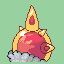
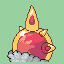
let it snow
finally completed the new mega i think i hope

Changed region(s): [[0.5938, 0.4375, 0.875, 0.9688], [0.4062, 0.5, 0.4375, 0.5312]]

diff --git a/src/data/pokemon/species_info.h b/src/data/pokemon/species_info.h
@@ -501,6 +501,64 @@ const struct SpeciesInfo gSpeciesInfo[] =
         .teachableLearnset = sRegitubeTeachableLearnset,
     },
 
+    [SPECIES_SLOWBRO_MEGA_G] =
+    {
+        .baseHP        = 95,
+        .baseAttack    = 100,
+        .baseDefense   = 95,
+        .baseSpeed     = 30,
+        .baseSpAttack  = 180,
+        .baseSpDefense = 90,
+        .types = MON_TYPES(TYPE_POISON, TYPE_PSYCHIC),
+        .catchRate = 75,
+        .expYield = 172,
+        .evYield_Attack = 2,
+        .genderRatio = PERCENT_FEMALE(50),
+        .eggCycles = 20,
+        .friendship = STANDARD_FRIENDSHIP,
+        .growthRate = GROWTH_MEDIUM_FAST,
+        .eggGroups = MON_EGG_GROUPS(EGG_GROUP_MONSTER, EGG_GROUP_WATER_1),
+        .abilities = { ABILITY_REACTIVE_FIRE, ABILITY_REACTIVE_FIRE, ABILITY_REACTIVE_FIRE },
+        .bodyColor = BODY_COLOR_PINK,
+        .speciesName = _("Slowbro"),
+        .cryId = CRY_SLOWBRO_MEGA,
+        .natDexNum = NATIONAL_DEX_SLOWBRO,
+        .categoryName = _("Hermit Crab"),
+        .height = 20,
+        .weight = 865,
+        .description = COMPOUND_STRING(
+            "A recently discovered Mega Evolution when\n"
+            "a Slowbro from Galar found a Slowbronite.\n"
+            "The force of poisonous shots fired from\n"
+            "its cannon can pierce through cargo ships."),
+        .pokemonScale = 256,
+        .pokemonOffset = 6,
+        .trainerScale = 326,
+        .trainerOffset = 2,
+        .frontPic = gMonFrontPic_SlowbroMegaG,
+        .frontPicSize = MON_COORDS_SIZE(64, 56),
+        .frontPicYOffset = 4,
+        .frontAnimFrames = sAnims_SingleFramePlaceHolder,
+        //.frontAnimId = ANIM_V_SQUISH_AND_BOUNCE,
+        .backPic = gMonBackPic_SlowbroMegaG,
+        .backPicSize = MON_COORDS_SIZE(64, 48),
+        .backPicYOffset = 2,
+        //.backAnimId = BACK_ANIM_NONE,
+        .palette = gMonPalette_SlowbroMegaG,
+        .shinyPalette = gMonShinyPalette_SlowbroMegaG,
+        .iconSprite = gMonIcon_SlowbroMegaG,
+        .iconPalIndex = 0,
+        .pokemonJumpType = PKMN_JUMP_TYPE_NONE,
+        SHADOW(0, 9, SHADOW_SIZE_L)
+        FOOTPRINT(Slowbro)
+        .isGalarianForm = TRUE,
+        .isMegaEvolution = TRUE,
+        .levelUpLearnset = sSlowbroGalarLevelUpLearnset,
+        .teachableLearnset = sSlowbroGalarTeachableLearnset,
+        .formSpeciesIdTable = sSlowbroFormSpeciesIdTable,
+        .formChangeTable = sSlowbroGalarFormChangeTable,
+    },
+
     [SPECIES_CASTFORM_MEGA] =
     {
         .baseHP        = 70,
@@ -521,7 +579,7 @@ const struct SpeciesInfo gSpeciesInfo[] =
         .abilities = { ABILITY_WEATHERMAN, ABILITY_WEATHERMAN, ABILITY_WEATHERMAN },
         .bodyColor = BODY_COLOR_GRAY,
         .speciesName = _("Castform"),
-        .cryId = CRY_CASTFORM,
+        .cryId = CRY_CASTFORM_MEGA,
         .natDexNum = NATIONAL_DEX_CASTFORM,
         .categoryName = _("Weather"),
         .height = 8,
@@ -580,7 +638,7 @@ const struct SpeciesInfo gSpeciesInfo[] =
         .abilities = { ABILITY_WEATHERMAN, ABILITY_WEATHERMAN, ABILITY_WEATHERMAN },
         .bodyColor = BODY_COLOR_RED,
         .speciesName = _("Castform"),
-        .cryId = CRY_CASTFORM,
+        .cryId = CRY_CASTFORM_MEGA,
         .natDexNum = NATIONAL_DEX_CASTFORM,
         .categoryName = _("Weather"),
         .height = 8,
@@ -639,7 +697,7 @@ const struct SpeciesInfo gSpeciesInfo[] =
         .abilities = { ABILITY_WEATHERMAN, ABILITY_WEATHERMAN, ABILITY_WEATHERMAN },
         .bodyColor = BODY_COLOR_BLUE,
         .speciesName = _("Castform"),
-        .cryId = CRY_CASTFORM,
+        .cryId = CRY_CASTFORM_MEGA,
         .natDexNum = NATIONAL_DEX_CASTFORM,
         .categoryName = _("Weather"),
         .height = 8,
@@ -698,7 +756,7 @@ const struct SpeciesInfo gSpeciesInfo[] =
         .abilities = { ABILITY_WEATHERMAN, ABILITY_WEATHERMAN, ABILITY_WEATHERMAN },
         .bodyColor = BODY_COLOR_WHITE,
         .speciesName = _("Castform"),
-        .cryId = CRY_CASTFORM,
+        .cryId = CRY_CASTFORM_MEGA,
         .natDexNum = NATIONAL_DEX_CASTFORM,
         .categoryName = _("Weather"),
         .height = 8,
@@ -712,22 +770,22 @@ const struct SpeciesInfo gSpeciesInfo[] =
         .pokemonOffset = -5,
         .trainerScale = 256,
         .trainerOffset = 0,
-        .frontPic = gMonFrontPic_CastformSnowy,
+        .frontPic = gMonFrontPic_CastformMegaSnowy,
         .frontPicSize = MON_COORDS_SIZE(40, 56),
         .frontPicYOffset = 8,
         .frontAnimFrames = sAnims_SingleFramePlaceHolder,
         //.frontAnimId = ANIM_V_SQUISH_AND_BOUNCE,
-        .enemyMonElevation = 5,
-        .backPic = gMonBackPic_CastformSnowy,
+        .enemyMonElevation = 7,
+        .backPic = gMonBackPic_CastformMegaSnowy,
         .backPicSize = MON_COORDS_SIZE(56, 64),
-        .backPicYOffset = 0,
+        .backPicYOffset = 2,
         //.backAnimId = BACK_ANIM_NONE,
-        .palette = gMonPalette_CastformSnowy,
-        .shinyPalette = gMonShinyPalette_CastformSnowy,
-        .iconSprite = gMonIcon_CastformSnowy,
+        .palette = gMonPalette_CastformMegaSnowy,
+        .shinyPalette = gMonShinyPalette_CastformMegaSnowy,
+        .iconSprite = gMonIcon_CastformMegaSnowy,
         .iconPalIndex = 0,
         .pokemonJumpType = PKMN_JUMP_TYPE_NONE,
-        SHADOW(0, 8, SHADOW_SIZE_S)
+        SHADOW(0, 11, SHADOW_SIZE_M)
         FOOTPRINT(Castform)
         .isMegaEvolution = TRUE,
         .levelUpLearnset = sCastformLevelUpLearnset,
@@ -735,64 +793,6 @@ const struct SpeciesInfo gSpeciesInfo[] =
         .eggMoveLearnset = sCastformEggMoveLearnset,
         .formSpeciesIdTable = sCastformFormSpeciesIdTable,
         .formChangeTable = sCastformMegaFormChangeTable,
-    },
-
-    [SPECIES_SLOWBRO_MEGA_G] =
-    {
-        .baseHP        = 95,
-        .baseAttack    = 100,
-        .baseDefense   = 95,
-        .baseSpeed     = 30,
-        .baseSpAttack  = 180,
-        .baseSpDefense = 90,
-        .types = MON_TYPES(TYPE_POISON, TYPE_PSYCHIC),
-        .catchRate = 75,
-        .expYield = 172,
-        .evYield_Attack = 2,
-        .genderRatio = PERCENT_FEMALE(50),
-        .eggCycles = 20,
-        .friendship = STANDARD_FRIENDSHIP,
-        .growthRate = GROWTH_MEDIUM_FAST,
-        .eggGroups = MON_EGG_GROUPS(EGG_GROUP_MONSTER, EGG_GROUP_WATER_1),
-        .abilities = { ABILITY_REACTIVE_FIRE, ABILITY_REACTIVE_FIRE, ABILITY_REACTIVE_FIRE },
-        .bodyColor = BODY_COLOR_PINK,
-        .speciesName = _("Slowbro"),
-        .cryId = CRY_SLOWBRO_MEGA,
-        .natDexNum = NATIONAL_DEX_SLOWBRO,
-        .categoryName = _("Hermit Crab"),
-        .height = 20,
-        .weight = 865,
-        .description = COMPOUND_STRING(
-            "A recently discovered Mega Evolution when\n"
-            "a Slowbro from Galar found a Slowbronite.\n"
-            "The force of poisonous shots fired from\n"
-            "its cannon can pierce through cargo ships."),
-        .pokemonScale = 256,
-        .pokemonOffset = 6,
-        .trainerScale = 326,
-        .trainerOffset = 2,
-        .frontPic = gMonFrontPic_SlowbroMegaG,
-        .frontPicSize = MON_COORDS_SIZE(64, 56),
-        .frontPicYOffset = 4,
-        .frontAnimFrames = sAnims_SingleFramePlaceHolder,
-        //.frontAnimId = ANIM_V_SQUISH_AND_BOUNCE,
-        .backPic = gMonBackPic_SlowbroMegaG,
-        .backPicSize = MON_COORDS_SIZE(64, 48),
-        .backPicYOffset = 2,
-        //.backAnimId = BACK_ANIM_NONE,
-        .palette = gMonPalette_SlowbroMegaG,
-        .shinyPalette = gMonShinyPalette_SlowbroMegaG,
-        .iconSprite = gMonIcon_SlowbroMegaG,
-        .iconPalIndex = 0,
-        .pokemonJumpType = PKMN_JUMP_TYPE_NONE,
-        SHADOW(0, 9, SHADOW_SIZE_L)
-        FOOTPRINT(Slowbro)
-        .isGalarianForm = TRUE,
-        .isMegaEvolution = TRUE,
-        .levelUpLearnset = sSlowbroGalarLevelUpLearnset,
-        .teachableLearnset = sSlowbroGalarTeachableLearnset,
-        .formSpeciesIdTable = sSlowbroFormSpeciesIdTable,
-        .formChangeTable = sSlowbroGalarFormChangeTable,
     },
 
     [SPECIES_CHARIZARD_MEGA_Z] =

diff --git a/src/data/graphics/pokemon.h b/src/data/graphics/pokemon.h
@@ -26778,6 +26778,12 @@ const u32 gObjectEventPic_Substitute[] = INCBIN_COMP("graphics/pokemon/question_
     const u16 gOverworldPalette_Regitube[] = INCBIN_U16("graphics/pokemon/regitube/overworld_normal.gbapal");
     const u16 gShinyOverworldPalette_Regitube[] = INCBIN_U16("graphics/pokemon/regitube/overworld_shiny.gbapal");
 
+    const u32 gMonFrontPic_SlowbroMegaG[] = INCBIN_U32("graphics/pokemon/slowbro/mega_g/front.4bpp.smol");
+    const u16 gMonPalette_SlowbroMegaG[] = INCBIN_U16("graphics/pokemon/slowbro/mega_g/normal.gbapal");
+    const u32 gMonBackPic_SlowbroMegaG[] = INCBIN_U32("graphics/pokemon/slowbro/mega_g/back.4bpp.smol");
+    const u16 gMonShinyPalette_SlowbroMegaG[] = INCBIN_U16("graphics/pokemon/slowbro/mega_g/shiny.gbapal");
+    const u8 gMonIcon_SlowbroMegaG[] = INCBIN_U8("graphics/pokemon/slowbro/mega_g/icon.4bpp");
+
     const u32 gMonFrontPic_CastformMega[] = INCBIN_U32("graphics/pokemon/castform/mega/front.4bpp.smol");
     const u16 gMonPalette_CastformMega[] = INCBIN_U16("graphics/pokemon/castform/mega/normal.gbapal");
     const u32 gMonBackPic_CastformMega[] = INCBIN_U32("graphics/pokemon/castform/mega/back.4bpp.smol");
@@ -26796,11 +26802,11 @@ const u32 gObjectEventPic_Substitute[] = INCBIN_COMP("graphics/pokemon/question_
     const u16 gMonShinyPalette_CastformMegaRainy[] = INCBIN_U16("graphics/pokemon/castform/mega_rainy/shiny.gbapal");
     const u8 gMonIcon_CastformMegaRainy[] = INCBIN_U8("graphics/pokemon/castform/mega_rainy/icon.4bpp");
 
-    const u32 gMonFrontPic_SlowbroMegaG[] = INCBIN_U32("graphics/pokemon/slowbro/mega_g/front.4bpp.smol");
-    const u16 gMonPalette_SlowbroMegaG[] = INCBIN_U16("graphics/pokemon/slowbro/mega_g/normal.gbapal");
-    const u32 gMonBackPic_SlowbroMegaG[] = INCBIN_U32("graphics/pokemon/slowbro/mega_g/back.4bpp.smol");
-    const u16 gMonShinyPalette_SlowbroMegaG[] = INCBIN_U16("graphics/pokemon/slowbro/mega_g/shiny.gbapal");
-    const u8 gMonIcon_SlowbroMegaG[] = INCBIN_U8("graphics/pokemon/slowbro/mega_g/icon.4bpp");
+    const u32 gMonFrontPic_CastformMegaSnowy[] = INCBIN_U32("graphics/pokemon/castform/mega_snowy/front.4bpp.smol");
+    const u16 gMonPalette_CastformMegaSnowy[] = INCBIN_U16("graphics/pokemon/castform/mega_snowy/normal.gbapal");
+    const u32 gMonBackPic_CastformMegaSnowy[] = INCBIN_U32("graphics/pokemon/castform/mega_snowy/back.4bpp.smol");
+    const u16 gMonShinyPalette_CastformMegaSnowy[] = INCBIN_U16("graphics/pokemon/castform/mega_snowy/shiny.gbapal");
+    const u8 gMonIcon_CastformMegaSnowy[] = INCBIN_U8("graphics/pokemon/castform/mega_snowy/icon.4bpp");
 
     const u32 gMonFrontPic_CharizardMegaZ[] = INCBIN_U32("graphics/pokemon/charizard/mega_z/anim_front.4bpp.smol");
     const u16 gMonPalette_CharizardMegaZ[] = INCBIN_U16("graphics/pokemon/charizard/mega_z/normal.gbapal");

diff --git a/src/data/items.h b/src/data/items.h
@@ -14917,24 +14917,6 @@ const struct Item gItemsInfo[] =
 
 //New hold items
 
-    [ITEM_CASTFORMITE] =
-    {
-        .name = ITEM_NAME("Castformite"),
-        .price = 0,
-        .holdEffect = HOLD_EFFECT_MEGA_STONE,
-        .description = COMPOUND_STRING(
-            "This stone enables\n"
-            "Castform to Mega\n"
-            "Evolve in battle."),
-        .pocket = POCKET_ITEMS,
-        .sortType = ITEM_TYPE_MEGA_STONE,
-        .type = ITEM_USE_BAG_MENU,
-        .fieldUseFunc = ItemUseOutOfBattle_CannotUse,
-        .flingPower = 80,
-        .iconPic = gItemIcon_Castformite,
-        .iconPalette = gItemIconPalette_Castformite,
-    },
-
     [ITEM_SLOWBRONITE_G] =
     {
         .name = ITEM_NAME("Slowbronite G"),
@@ -14952,6 +14934,24 @@ const struct Item gItemsInfo[] =
         .flingPower = 80,
         .iconPic = gItemIcon_SlowbroniteG,
         .iconPalette = gItemIconPalette_SlowbroniteG,
+    },
+
+    [ITEM_CASTFORMITE] =
+    {
+        .name = ITEM_NAME("Castformite"),
+        .price = 0,
+        .holdEffect = HOLD_EFFECT_MEGA_STONE,
+        .description = COMPOUND_STRING(
+            "This stone enables\n"
+            "Castform to Mega\n"
+            "Evolve in battle."),
+        .pocket = POCKET_ITEMS,
+        .sortType = ITEM_TYPE_MEGA_STONE,
+        .type = ITEM_USE_BAG_MENU,
+        .fieldUseFunc = ItemUseOutOfBattle_CannotUse,
+        .flingPower = 80,
+        .iconPic = gItemIcon_Castformite,
+        .iconPalette = gItemIconPalette_Castformite,
     },
 
     [ITEM_CHARIZARDITE_Z] =

diff --git a/src/data/graphics/items.h b/src/data/graphics/items.h
@@ -2112,11 +2112,11 @@ const u16 gItemIconPalette_Hatchet[] = INCBIN_U16("graphics/items/icon_palettes/
 const u32 gItemIcon_Pickaxe[] = INCBIN_U32("graphics/items/icons/pickaxe.4bpp.lz");
 const u16 gItemIconPalette_Pickaxe[] = INCBIN_U16("graphics/items/icon_palettes/pickaxe.gbapal");
 
-const u32 gItemIcon_Castformite[] = INCBIN_U32("graphics/items/icons/castformite.4bpp.lz");
-const u16 gItemIconPalette_Castformite[] = INCBIN_U16("graphics/items/icon_palettes/castformite.gbapal");
-
 const u32 gItemIcon_SlowbroniteG[] = INCBIN_U32("graphics/items/icons/slowbronite_g.4bpp.lz");
 const u16 gItemIconPalette_SlowbroniteG[] = INCBIN_U16("graphics/items/icon_palettes/slowbronite_g.gbapal");
+
+const u32 gItemIcon_Castformite[] = INCBIN_U32("graphics/items/icons/castformite.4bpp.lz");
+const u16 gItemIconPalette_Castformite[] = INCBIN_U16("graphics/items/icon_palettes/castformite.gbapal");
 
 const u32 gItemIcon_CharizarditeZ[] = INCBIN_U32("graphics/items/icons/charizardite_z.4bpp.lz");
 const u16 gItemIconPalette_CharizarditeZ[] = INCBIN_U16("graphics/items/icon_palettes/charizardite_z.gbapal");

diff --git a/include/constants/species.h b/include/constants/species.h
@@ -1643,11 +1643,11 @@
 #define SPECIES_AVITORCH_CALM                           1526
 #define SPECIES_AVITORCH_ENRAGED                        1527
 #define SPECIES_REGITUBE                                1528
-#define SPECIES_CASTFORM_MEGA                           1529
-#define SPECIES_CASTFORM_MEGA_SUNNY                     1530
-#define SPECIES_CASTFORM_MEGA_RAINY                     1531
-#define SPECIES_CASTFORM_MEGA_SNOWY                     1532
-#define SPECIES_SLOWBRO_MEGA_G                          1533
+#define SPECIES_SLOWBRO_MEGA_G                          1529
+#define SPECIES_CASTFORM_MEGA                           1530
+#define SPECIES_CASTFORM_MEGA_SUNNY                     1531
+#define SPECIES_CASTFORM_MEGA_RAINY                     1532
+#define SPECIES_CASTFORM_MEGA_SNOWY                     1533
 #define SPECIES_CHARIZARD_MEGA_Z                        1534
 #define SPECIES_CHARIZARD_OMEGA_Z                       1535
 

diff --git a/include/graphics.h b/include/graphics.h
@@ -1750,10 +1750,10 @@ extern const u16 gItemIconPalette_Hatchet[];
 extern const u32 gItemIcon_Pickaxe[];
 extern const u16 gItemIconPalette_Pickaxe[];
 
-extern const u32 gItemIcon_Castformite[];
-extern const u16 gItemIconPalette_Castformite[];
 extern const u32 gItemIcon_SlowbroniteG[];
 extern const u16 gItemIconPalette_SlowbroniteG[];
+extern const u32 gItemIcon_Castformite[];
+extern const u16 gItemIconPalette_Castformite[];
 extern const u32 gItemIcon_CharizarditeZ[];
 extern const u16 gItemIconPalette_CharizarditeZ[];
 

diff --git a/include/constants/items.h b/include/constants/items.h
@@ -1010,8 +1010,8 @@
 #define ITEM_CLIMBING_GEAR 843
 #define ITEM_HM10_REPLACE 844
 
-#define ITEM_CASTFORMITE 845
-#define ITEM_SLOWBRONITE_G 846
+#define ITEM_SLOWBRONITE_G 845
+#define ITEM_CASTFORMITE 846
 #define ITEM_CHARIZARDITE_Z 847
 
 #define ITEMS_COUNT 848

diff --git a/include/constants/cries.h b/include/constants/cries.h
@@ -2431,6 +2431,7 @@ enum PokemonCry
     CRY_MISSINGNO,
     CRY_AVITORCH,
     CRY_REGITUBE,
+    CRY_CASTFORM_MEGA,
     CRY_CHARIZARD_MEGA_Z,
     CRY_CHARIZARD_OMEGA_Z,
     CRY_COUNT,
